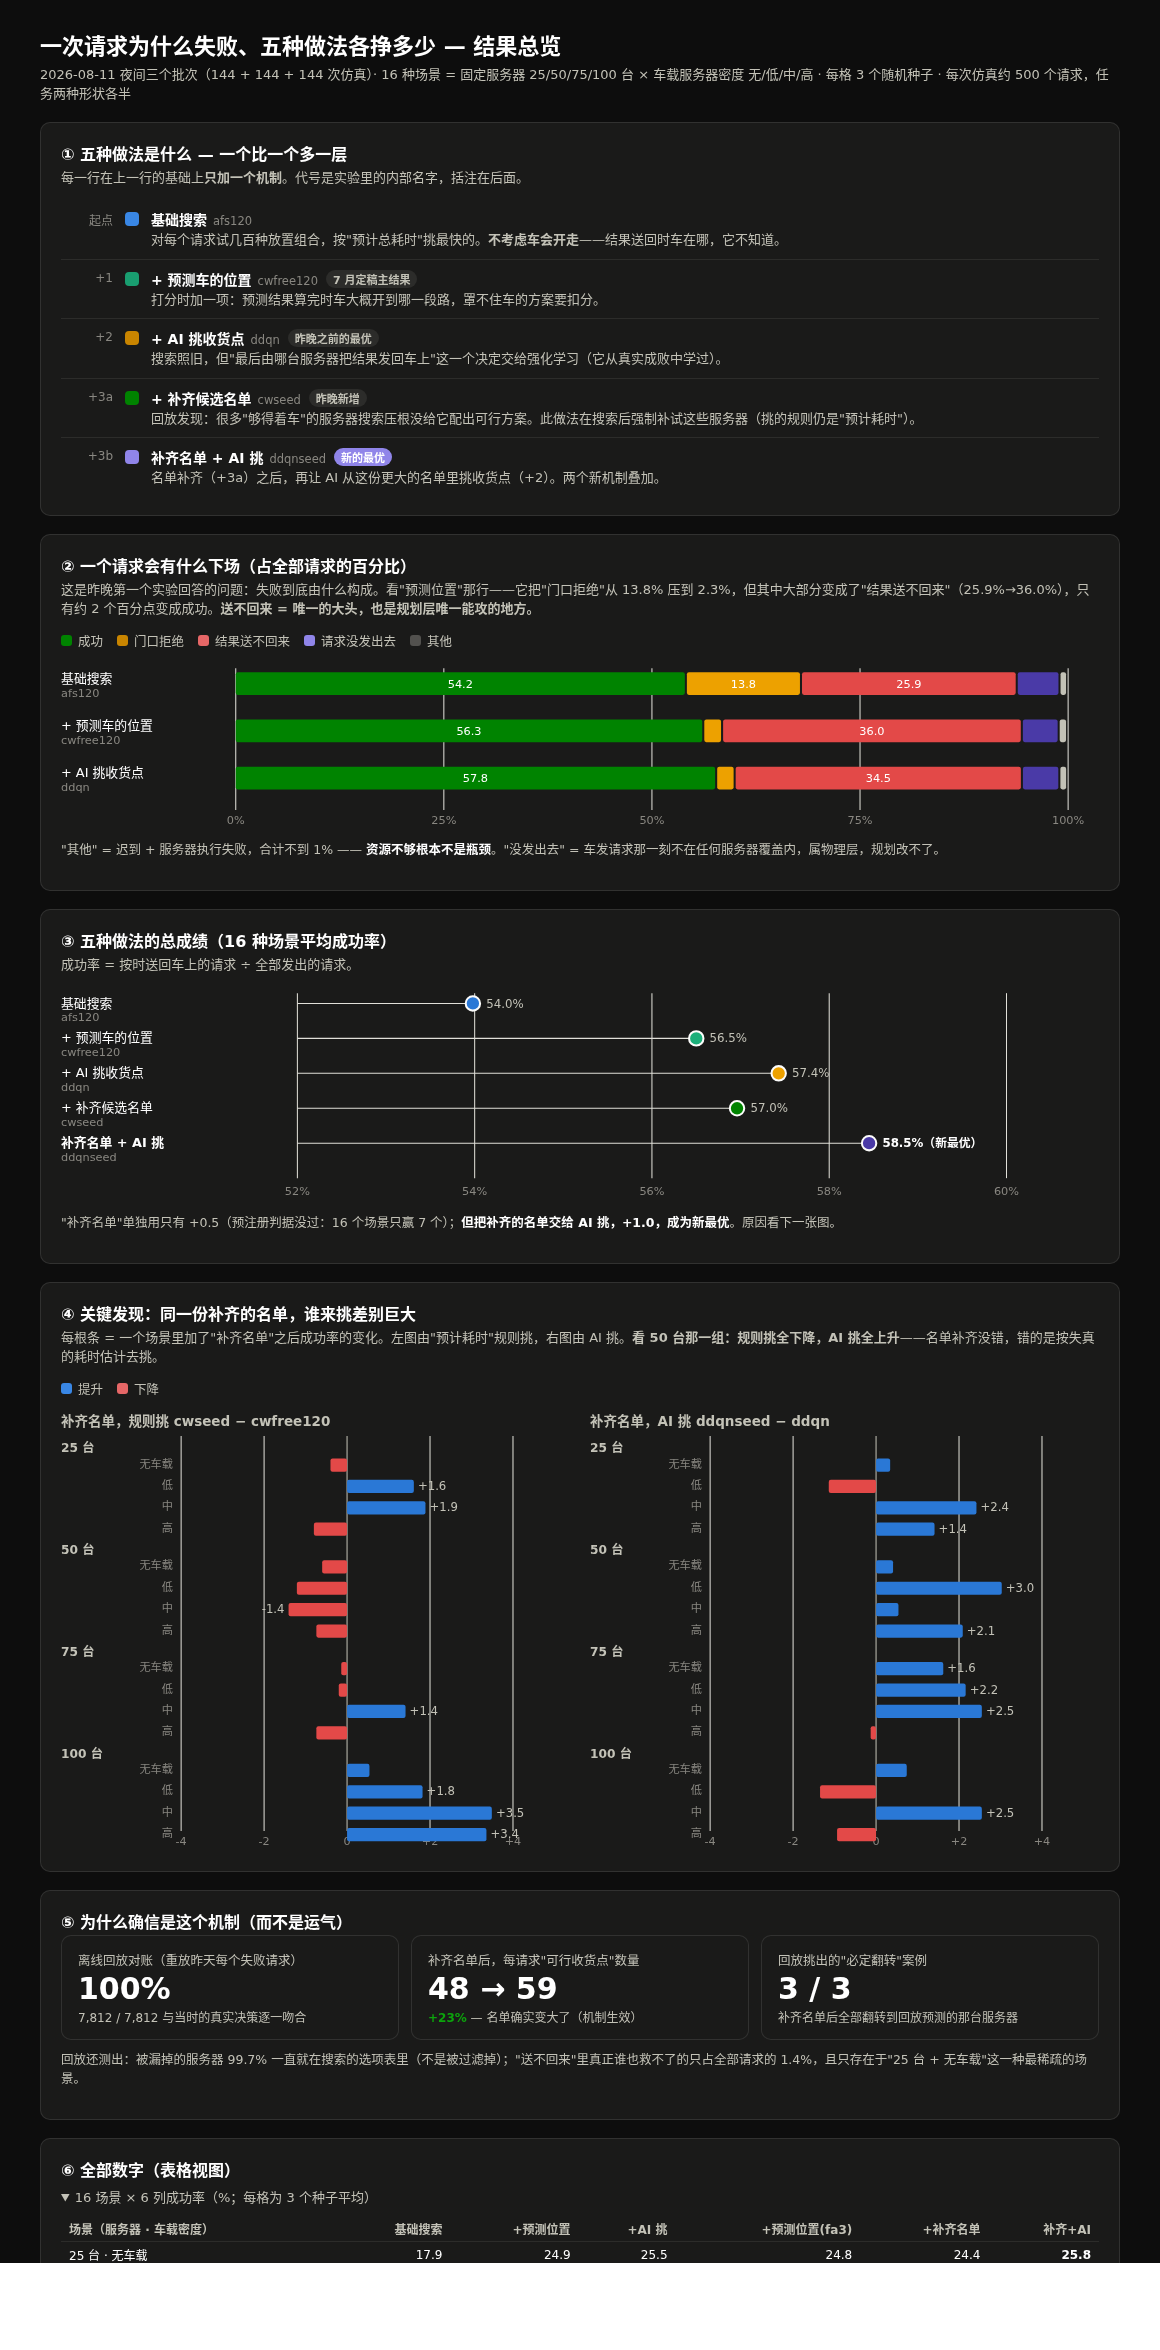
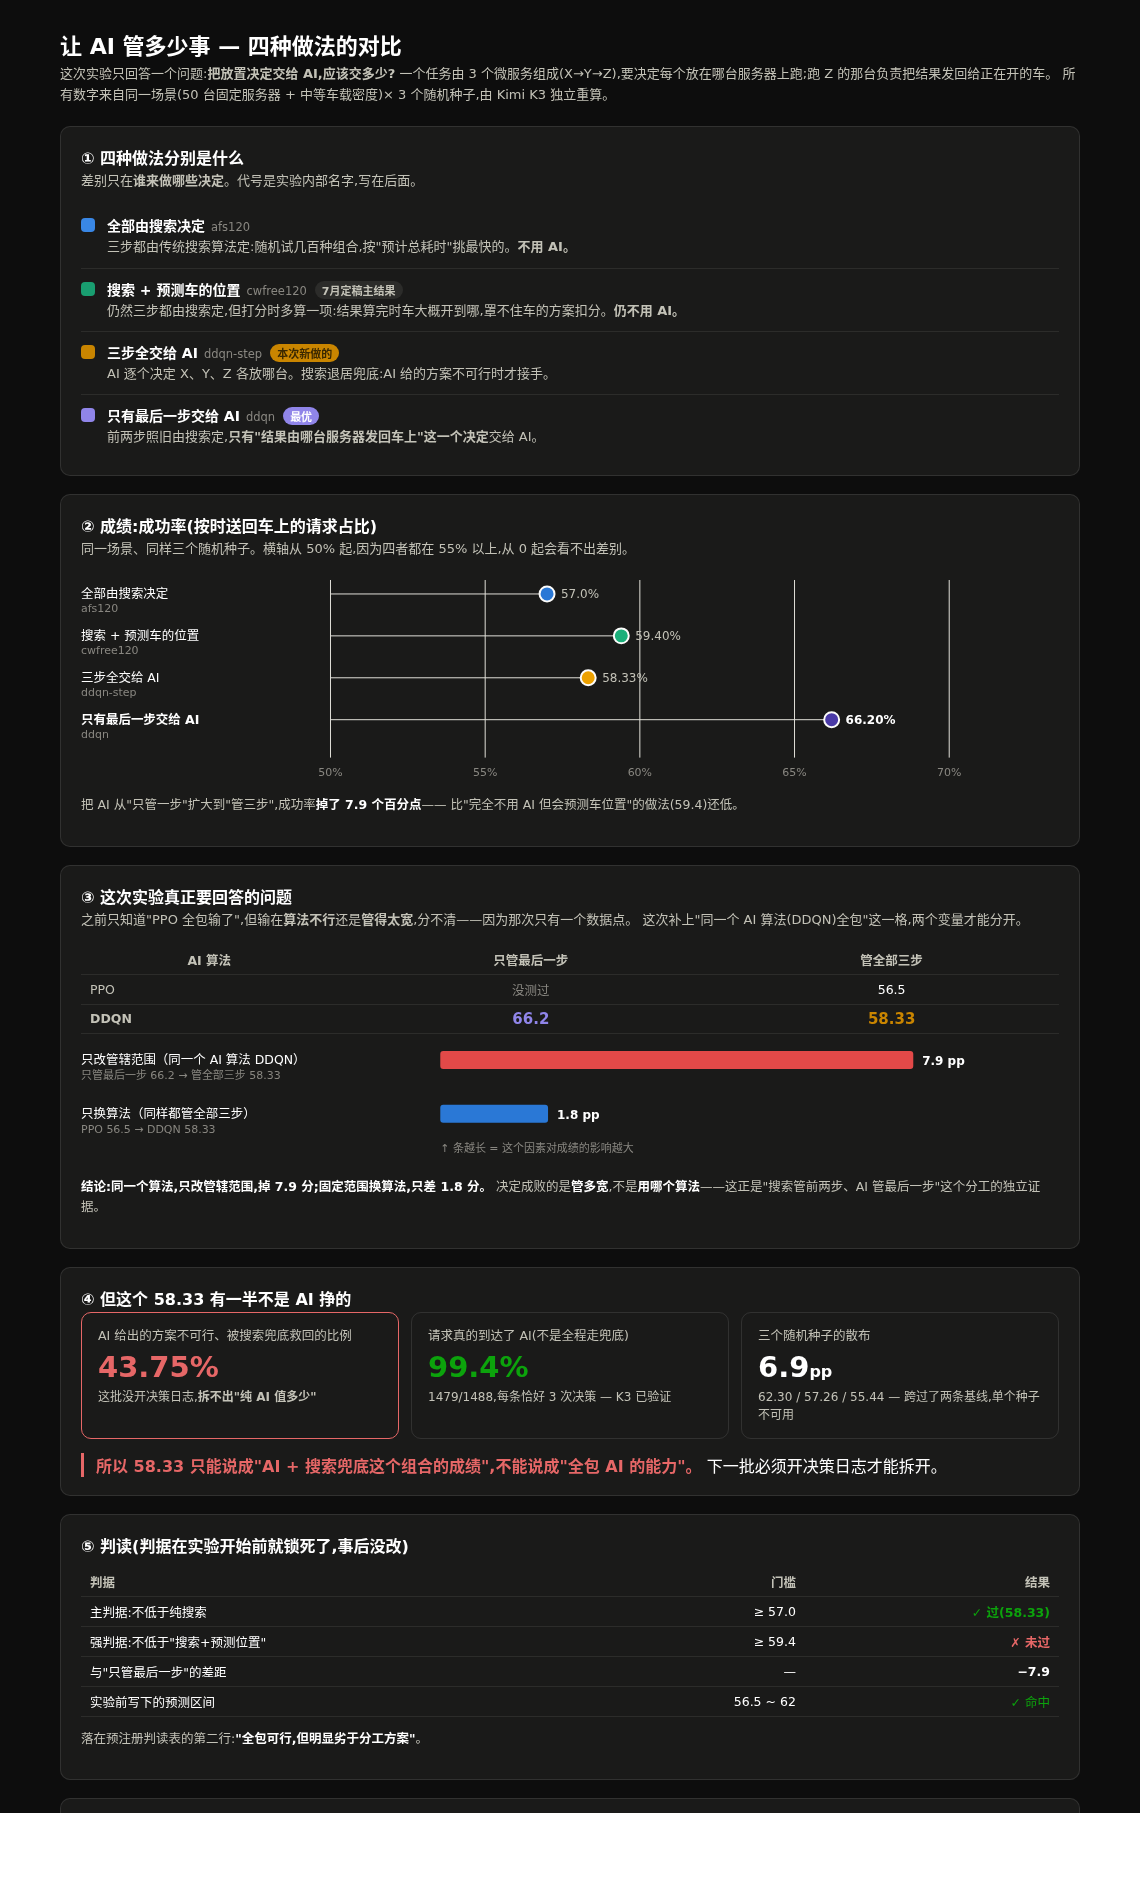
新增 dstep 结果页:让 AI 管多少事
同一个 AI 算法,只改管辖范围(只管最后一步 66.2 → 管全部三步 58.33),掉 7.9 分;
固定范围换算法(PPO 56.5 → DDQN 58.33),只差 1.8 分。决定成败的是管多宽。

数字由 Kimi K3 独立重算,三源一致。页面同时标注了最大保留:
43.75% 的方案不可行由搜索兜底,所以 58.33 是混合成绩。

diff --git a/dstep.html b/dstep.html
@@ -1,0 +1,234 @@
+<!DOCTYPE html>
+<html lang="zh-CN">
+<head>
+<meta charset="utf-8">
+<meta name="viewport" content="width=device-width, initial-scale=1">
+<title>让 AI 管多少事 — 四种做法的对比结果</title>
+<style>
+.viz-root{
+  --surface-1:#fcfcfb; --page:#f9f9f7;
+  --ink-1:#0b0b0b; --ink-2:#52514e; --ink-3:#898781;
+  --grid:#e1e0d9; --axis:#c3c2b7; --ring:rgba(11,11,11,.10);
+  --m-base:#2a78d6; --m-geo:#1baf7a; --m-whole:#eda100; --m-final:#4a3aa7;
+  --neg:#e34948; --pos:#2a78d6;
+  --good-text:#006300;
+}
+@media (prefers-color-scheme: dark){ .viz-root:not([data-theme=light]){
+  --surface-1:#1a1a19; --page:#0d0d0d; --ink-1:#fff; --ink-2:#c3c2b7; --ink-3:#898781;
+  --grid:#2c2c2a; --axis:#383835; --ring:rgba(255,255,255,.10);
+  --m-base:#3987e5; --m-geo:#199e70; --m-whole:#c98500; --m-final:#9085e9;
+  --neg:#e66767; --pos:#3987e5; --good-text:#0ca30c; } }
+.viz-root[data-theme=dark]{
+  --surface-1:#1a1a19; --page:#0d0d0d; --ink-1:#fff; --ink-2:#c3c2b7; --ink-3:#898781;
+  --grid:#2c2c2a; --axis:#383835; --ring:rgba(255,255,255,.10);
+  --m-base:#3987e5; --m-geo:#199e70; --m-whole:#c98500; --m-final:#9085e9;
+  --neg:#e66767; --pos:#3987e5; --good-text:#0ca30c; }
+*{box-sizing:border-box}
+body{margin:0;font-family:system-ui,-apple-system,"Segoe UI","Noto Sans CJK SC",sans-serif}
+.viz-root{background:var(--page);color:var(--ink-1);padding:28px 16px;min-height:100vh}
+.wrap{max-width:1020px;margin:0 auto}
+h1{font-size:22px;margin:0 0 4px}
+h2{font-size:16px;margin:0 0 2px}
+.sub{color:var(--ink-2);font-size:13px;margin:0 0 20px;line-height:1.6}
+.card{background:var(--surface-1);border:1px solid var(--ring);border-radius:10px;padding:18px 20px;margin-bottom:18px}
+.why{color:var(--ink-2);font-size:13px;margin:2px 0 14px;line-height:1.6}
+.note{color:var(--ink-2);font-size:12.5px;margin-top:12px;line-height:1.6}
+.note b{color:var(--ink-1)}
+.warn{border-left:3px solid var(--neg);padding-left:12px;margin-top:14px}
+.warn b{color:var(--neg)}
+.rung{display:flex;gap:12px;padding:10px 0;border-bottom:1px solid var(--grid)}
+.rung:last-child{border-bottom:none}
+.rung .sw{width:14px;height:14px;border-radius:4px;margin-top:3px;flex:none}
+.rung .nm{font-weight:600;font-size:14px}
+.rung .cd{color:var(--ink-3);font-size:11.5px;font-weight:400;margin-left:6px}
+.rung .ds{color:var(--ink-2);font-size:13px;margin-top:2px;line-height:1.55}
+.badge{display:inline-block;font-size:11px;font-weight:600;padding:1px 7px;border-radius:9px;margin-left:8px}
+.badge.win{background:var(--m-final);color:#fff}
+.badge.new{background:var(--m-whole);color:#3a2800}
+.tiles{display:grid;grid-template-columns:repeat(auto-fit,minmax(210px,1fr));gap:12px}
+.tile{border:1px solid var(--ring);border-radius:10px;padding:14px 16px}
+.tile .lb{font-size:12.5px;color:var(--ink-2);line-height:1.5}
+.tile .v{font-size:29px;font-weight:600;margin:4px 0}
+.tile .d{font-size:12px;color:var(--ink-2);line-height:1.5}
+svg{display:block}
+svg text{font-family:inherit}
+.tick{font-size:11px;fill:var(--ink-3)}
+.rl{font-size:12.5px;fill:var(--ink-1)}
+.rl2{font-size:11px;fill:var(--ink-3)}
+.vl{font-size:12px;fill:var(--ink-2)}
+.vl.em{font-weight:600;fill:var(--ink-1)}
+.mark{cursor:default}
+.mark:focus{outline:2px solid var(--pos);outline-offset:2px}
+#tip{position:fixed;pointer-events:none;background:var(--surface-1);color:var(--ink-1);
+ border:1px solid var(--ring);border-radius:8px;padding:8px 11px;font-size:12.5px;
+ box-shadow:0 4px 14px rgba(0,0,0,.13);opacity:0;transition:opacity .12s;z-index:9;max-width:300px;line-height:1.5}
+table{border-collapse:collapse;font-size:12.5px;margin-top:10px;width:100%}
+th,td{padding:5px 9px;text-align:right;border-bottom:1px solid var(--grid);font-variant-numeric:tabular-nums}
+th{color:var(--ink-2);font-weight:600}
+td:first-child,th:first-child{text-align:left}
+.matrix td,.matrix th{text-align:center}
+.matrix td:first-child{text-align:left;color:var(--ink-2)}
+.hi{font-weight:600;font-size:15px}
+.footer{color:var(--ink-3);font-size:11.5px;margin-top:10px;line-height:1.6}
+</style>
+</head>
+<body>
+<div class="viz-root" id="root"><div class="wrap">
+
+<h1>让 AI 管多少事 — 四种做法的对比</h1>
+<p class="sub">这次实验只回答一个问题:<b>把放置决定交给 AI,应该交多少?</b>
+一个任务由 3 个微服务组成(X→Y→Z),要决定每个放在哪台服务器上跑;跑 Z 的那台负责把结果发回给正在开的车。
+所有数字来自同一场景(50 台固定服务器 + 中等车载密度)× 3 个随机种子,由 Kimi K3 独立重算。</p>
+
+<!-- ① 名词 -->
+<div class="card">
+  <h2>① 四种做法分别是什么</h2>
+  <p class="why">差别只在<b>谁来做哪些决定</b>。代号是实验内部名字,写在后面。</p>
+  <div>
+    <div class="rung"><span class="sw" style="background:var(--m-base)"></span><div>
+      <div class="nm">全部由搜索决定<span class="cd">afs120</span></div>
+      <div class="ds">三步都由传统搜索算法定:随机试几百种组合,按"预计总耗时"挑最快的。<b>不用 AI。</b></div></div></div>
+    <div class="rung"><span class="sw" style="background:var(--m-geo)"></span><div>
+      <div class="nm">搜索 + 预测车的位置<span class="cd">cwfree120</span><span class="badge" style="background:var(--grid);color:var(--ink-2)">7月定稿主结果</span></div>
+      <div class="ds">仍然三步都由搜索定,但打分时多算一项:结果算完时车大概开到哪,罩不住车的方案扣分。<b>仍不用 AI。</b></div></div></div>
+    <div class="rung"><span class="sw" style="background:var(--m-whole)"></span><div>
+      <div class="nm">三步全交给 AI<span class="cd">ddqn-step</span><span class="badge new">本次新做的</span></div>
+      <div class="ds">AI 逐个决定 X、Y、Z 各放哪台。搜索退居兜底:AI 给的方案不可行时才接手。</div></div></div>
+    <div class="rung"><span class="sw" style="background:var(--m-final)"></span><div>
+      <div class="nm">只有最后一步交给 AI<span class="cd">ddqn</span><span class="badge win">最优</span></div>
+      <div class="ds">前两步照旧由搜索定,<b>只有"结果由哪台服务器发回车上"这一个决定</b>交给 AI。</div></div></div>
+  </div>
+</div>
+
+<!-- ② 成绩 -->
+<div class="card">
+  <h2>② 成绩:成功率(按时送回车上的请求占比)</h2>
+  <p class="why">同一场景、同样三个随机种子。横轴从 50% 起,因为四者都在 55% 以上,从 0 起会看不出差别。</p>
+  <div id="chDot"></div>
+  <p class="note">把 AI 从"只管一步"扩大到"管三步",成功率<b>掉了 7.9 个百分点</b>——
+  比"完全不用 AI 但会预测车位置"的做法(59.4)还低。</p>
+</div>
+
+<!-- ③ 消融 -->
+<div class="card">
+  <h2>③ 这次实验真正要回答的问题</h2>
+  <p class="why">之前只知道"PPO 全包输了",但输在<b>算法不行</b>还是<b>管得太宽</b>,分不清——因为那次只有一个数据点。
+  这次补上"同一个 AI 算法(DDQN)全包"这一格,两个变量才能分开。</p>
+  <table class="matrix"><thead><tr><th>AI 算法</th><th>只管最后一步</th><th>管全部三步</th></tr></thead>
+  <tbody>
+    <tr><td>PPO</td><td style="color:var(--ink-3)">没测过</td><td>56.5</td></tr>
+    <tr><td><b>DDQN</b></td><td class="hi" style="color:var(--m-final)">66.2</td><td class="hi" style="color:var(--m-whole)">58.33</td></tr>
+  </tbody></table>
+  <div id="chAbl"></div>
+  <p class="note"><b>结论:同一个算法,只改管辖范围,掉 7.9 分;固定范围换算法,只差 1.8 分。</b>
+  决定成败的是<b>管多宽</b>,不是<b>用哪个算法</b>——这正是"搜索管前两步、AI 管最后一步"这个分工的独立证据。</p>
+</div>
+
+<!-- ④ 保留 -->
+<div class="card">
+  <h2>④ 但这个 58.33 有一半不是 AI 挣的</h2>
+  <div class="tiles">
+    <div class="tile" style="border-color:var(--neg)">
+      <div class="lb">AI 给出的方案不可行、被搜索兜底救回的比例</div>
+      <div class="v" style="color:var(--neg)">43.75%</div>
+      <div class="d">这批没开决策日志,<b>拆不出"纯 AI 值多少"</b></div></div>
+    <div class="tile">
+      <div class="lb">请求真的到达了 AI(不是全程走兜底)</div>
+      <div class="v" style="color:var(--good-text)">99.4%</div>
+      <div class="d">1479/1488,每条恰好 3 次决策 — K3 已验证</div></div>
+    <div class="tile">
+      <div class="lb">三个随机种子的散布</div>
+      <div class="v">6.9<span style="font-size:16px">pp</span></div>
+      <div class="d">62.30 / 57.26 / 55.44 — 跨过了两条基线,单个种子不可用</div></div>
+  </div>
+  <div class="warn"><b>所以 58.33 只能说成"AI + 搜索兜底这个组合的成绩",不能说成"全包 AI 的能力"。</b>
+  下一批必须开决策日志才能拆开。</div>
+</div>
+
+<!-- ⑤ 判据 -->
+<div class="card">
+  <h2>⑤ 判读(判据在实验开始前就锁死了,事后没改)</h2>
+  <table><thead><tr><th>判据</th><th>门槛</th><th>结果</th></tr></thead><tbody>
+    <tr><td>主判据:不低于纯搜索</td><td>≥ 57.0</td><td style="color:var(--good-text);font-weight:600">✓ 过(58.33)</td></tr>
+    <tr><td>强判据:不低于"搜索+预测位置"</td><td>≥ 59.4</td><td style="color:var(--neg);font-weight:600">✗ 未过</td></tr>
+    <tr><td>与"只管最后一步"的差距</td><td>—</td><td style="font-weight:600">−7.9</td></tr>
+    <tr><td>实验前写下的预测区间</td><td>56.5 ~ 62</td><td style="color:var(--good-text)">✓ 命中</td></tr>
+  </tbody></table>
+  <p class="note">落在预注册判读表的第二行:<b>"全包可行,但明显劣于分工方案"</b>。</p>
+</div>
+
+<div class="card">
+  <h2>⑥ 一个影响其他结论的发现</h2>
+  <p class="why">K3 审计时发现:仿真结束时,程序会把<b>所有还没等到结果的请求一次性记成失败</b>
+  (代码 <code>MSUserApp.cc:601-605</code>),而这个世界有 36–39% 的请求属于这一类。</p>
+  <p class="note">后果:训练过程中那个"送达率"指标<b>系统性偏低,只能看趋势、不能看数值</b>。
+  我之前汇报的"送达率 0.164 → 0.306"——<b>趋势成立(偏差每轮一样),但 0.306 不是准时率</b>,那样说不准确。
+  已在三处更正,权威成功率一律以仿真原始输出为准(即本页的 58.33)。</p>
+  <p class="footer">数据:K3 独立重算(rlv3_data/report/K3_DstepAudit_Report_20260812.md),三源一致(run.sca / UE 记录 / runs.csv)。
+  场景 MSW_path_sf10_p70_S50_MMedium_Chain,seeds 0-2,1200 秒仿真,冻结模型无探索。
+  判读文档 docs/DDQN_Stepwise_Results_20260813.md,预注册 docs/DDQN_Stepwise_Prereg_20260812.md。</p>
+</div>
+
+</div><div id="tip"></div>
+<script>
+const M=[
+ {k:"base",  label:"全部由搜索决定",        code:"afs120",   v:57.0, c:"--m-base",  note:"基线,不用 AI"},
+ {k:"geo",   label:"搜索 + 预测车的位置",   code:"cwfree120",v:59.4, c:"--m-geo",   note:"7 月定稿主结果,仍不用 AI"},
+ {k:"whole", label:"三步全交给 AI",         code:"ddqn-step",v:58.33,c:"--m-whole", note:"本次新做;含 43.75% 搜索兜底"},
+ {k:"final", label:"只有最后一步交给 AI",   code:"ddqn",     v:66.2, c:"--m-final", note:"最优", win:true}];
+const css=v=>getComputedStyle(document.getElementById('root')).getPropertyValue(v).trim();
+const tip=document.getElementById('tip');
+function show(h,x,y){tip.innerHTML=h;tip.style.opacity=1;const w=tip.offsetWidth,ht=tip.offsetHeight;
+ tip.style.left=Math.min(x+14,innerWidth-w-8)+"px";tip.style.top=(y-ht-12<8?y+16:y-ht-12)+"px";}
+function hide(){tip.style.opacity=0}
+function bind(el,h){el.addEventListener('mousemove',e=>show(h,e.clientX,e.clientY));
+ el.addEventListener('mouseleave',hide);el.setAttribute('tabindex','0');
+ el.addEventListener('focus',()=>{const r=el.getBoundingClientRect();show(h,r.left+r.width/2,r.top)});
+ el.addEventListener('blur',hide);}
+const NS="http://www.w3.org/2000/svg", E=(t,a)=>{const n=document.createElementNS(NS,t);for(const k in a)n.setAttribute(k,a[k]);return n};
+
+(function(){
+  const W=980,LW=250,PW=W-LW-110,RH=42,H=M.length*RH+42,MIN=50,MAX=70;
+  const X=v=>LW+(v-MIN)/(MAX-MIN)*PW;
+  const svg=E('svg',{viewBox:`0 0 ${W} ${H}`,width:"100%","aria-label":"四种做法成功率对比"});
+  for(let t=MIN;t<=MAX;t+=5){
+    svg.appendChild(E('line',{x1:X(t),y1:6,x2:X(t),y2:H-26,stroke:css('--grid'),'stroke-width':1}));
+    const x=E('text',{x:X(t),y:H-8,'text-anchor':'middle','class':'tick'});x.textContent=t+"%";svg.appendChild(x);}
+  M.forEach((m,i)=>{
+    const y=20+i*RH;
+    const nm=E('text',{x:0,y:y+4,'class':'rl',...(m.win?{'font-weight':'600'}:{})});nm.textContent=m.label;svg.appendChild(nm);
+    const cd=E('text',{x:0,y:y+18,'class':'rl2'});cd.textContent=m.code;svg.appendChild(cd);
+    svg.appendChild(E('line',{x1:X(MIN),y1:y,x2:X(m.v),y2:y,stroke:css('--grid'),'stroke-width':1}));
+    const d=E('circle',{cx:X(m.v),cy:y,r:7.5,fill:css(m.c),stroke:css('--surface-1'),'stroke-width':2,'class':'mark'});
+    svg.appendChild(d);
+    bind(d,`<b>${m.label}</b><br><span style="color:var(--ink-2)">${m.code}</span><br>成功率 <b>${m.v}%</b><br><span style="color:var(--ink-2)">${m.note}</span>`);
+    const vl=E('text',{x:X(m.v)+14,y:y+4,'class':m.win?'vl em':'vl'});
+    vl.textContent=m.v.toFixed(m.v%1?2:1)+"%";svg.appendChild(vl);});
+  document.getElementById('chDot').appendChild(svg);
+})();
+
+(function(){
+  const W=980,H=132,CX=180;
+  const svg=E('svg',{viewBox:`0 0 ${W} ${H}`,width:"100%","aria-label":"范围与算法的影响对比"});
+  const bars=[
+    {lb:"只改管辖范围（同一个 AI 算法 DDQN）",sub:"只管最后一步 66.2 → 管全部三步 58.33",v:7.9,c:'--neg'},
+    {lb:"只换算法（同样都管全部三步）",sub:"PPO 56.5 → DDQN 58.33",v:1.8,c:'--m-base'}];
+  const maxv=9, PW=W-CX-260;
+  bars.forEach((b,i)=>{
+    const y=26+i*54;
+    const t=E('text',{x:0,y:y+4,'class':'rl'});t.textContent=b.lb;svg.appendChild(t);
+    const s=E('text',{x:0,y:y+19,'class':'rl2'});s.textContent=b.sub;svg.appendChild(s);
+    const w=b.v/maxv*PW;
+    const r=E('rect',{x:CX+180,y:y-9,width:w,height:18,rx:3,fill:css(b.c),'class':'mark'});
+    svg.appendChild(r);
+    bind(r,`<b>${b.lb}</b><br>${b.sub}<br>影响 <b>${b.v} 个百分点</b>`);
+    const vl=E('text',{x:CX+180+w+9,y:y+5,'class':'vl em'});vl.textContent=b.v+" pp";svg.appendChild(vl);});
+  const cap=E('text',{x:CX+180,y:H-14,'class':'rl2'});
+  cap.textContent="↑ 条越长 = 这个因素对成绩的影响越大";svg.appendChild(cap);
+  document.getElementById('chAbl').appendChild(svg);
+})();
+
+if(location.hash==="#dark")document.getElementById('root').dataset.theme="dark";
+if(location.hash==="#light")document.getElementById('root').dataset.theme="light";
+</script>
+</div></body></html>

diff --git a/README.md b/README.md
@@ -2,7 +2,8 @@
 
 MobiEdgeSim 微服务放置实验的结果可视化。**互动版在这里：**
 
-### 👉 https://wynn-th.github.io/msprov-results/
+### 👉 https://wynn-th.github.io/msprov-results/  — 失败归因与候选补种（08-11 批次）
+### 👉 https://wynn-th.github.io/msprov-results/dstep.html — 让 AI 管多少事（08-12 批次）
 
 （悬停任意柱/点看精确数值；底部有全部 16 场景的数字表格；跟随系统深浅色。）
 
